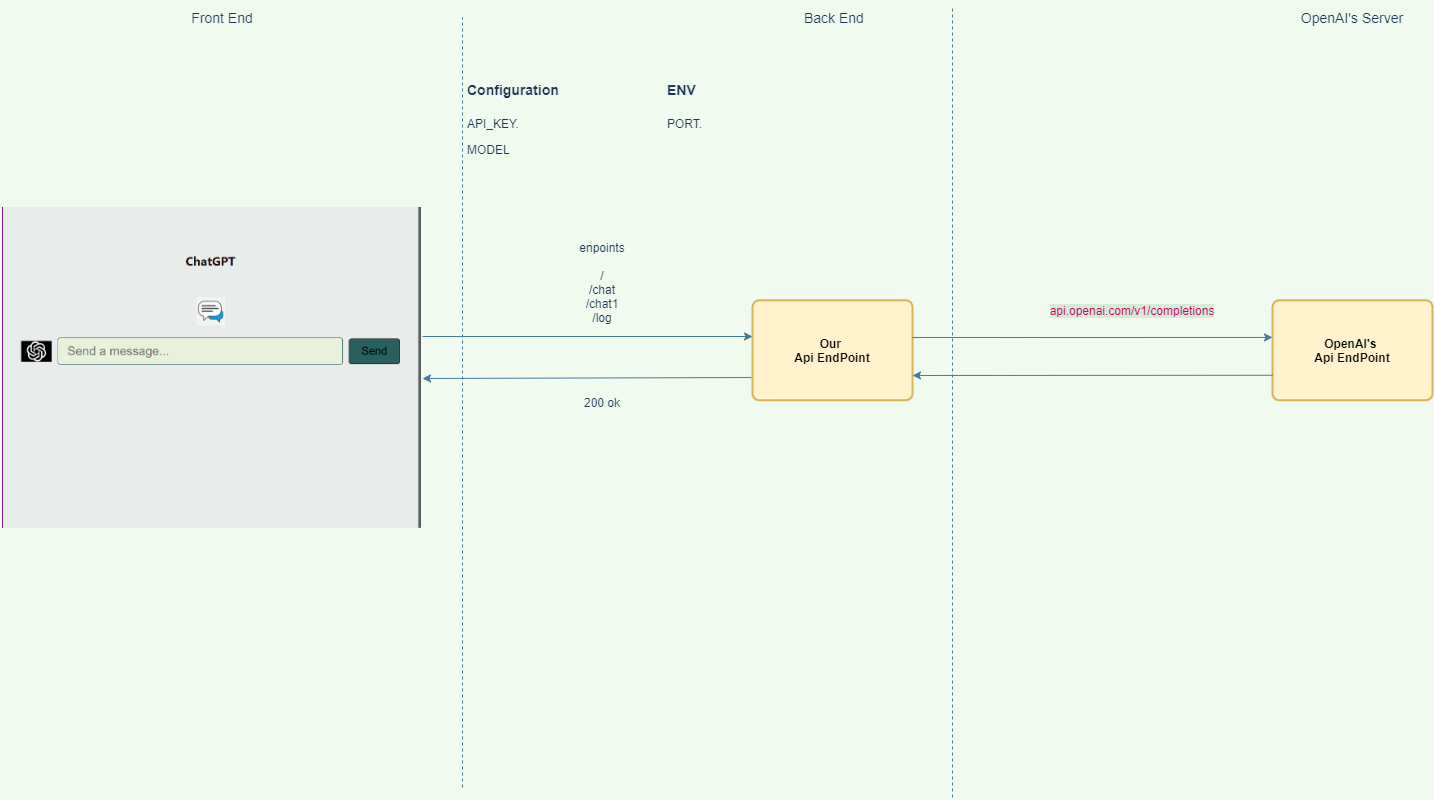
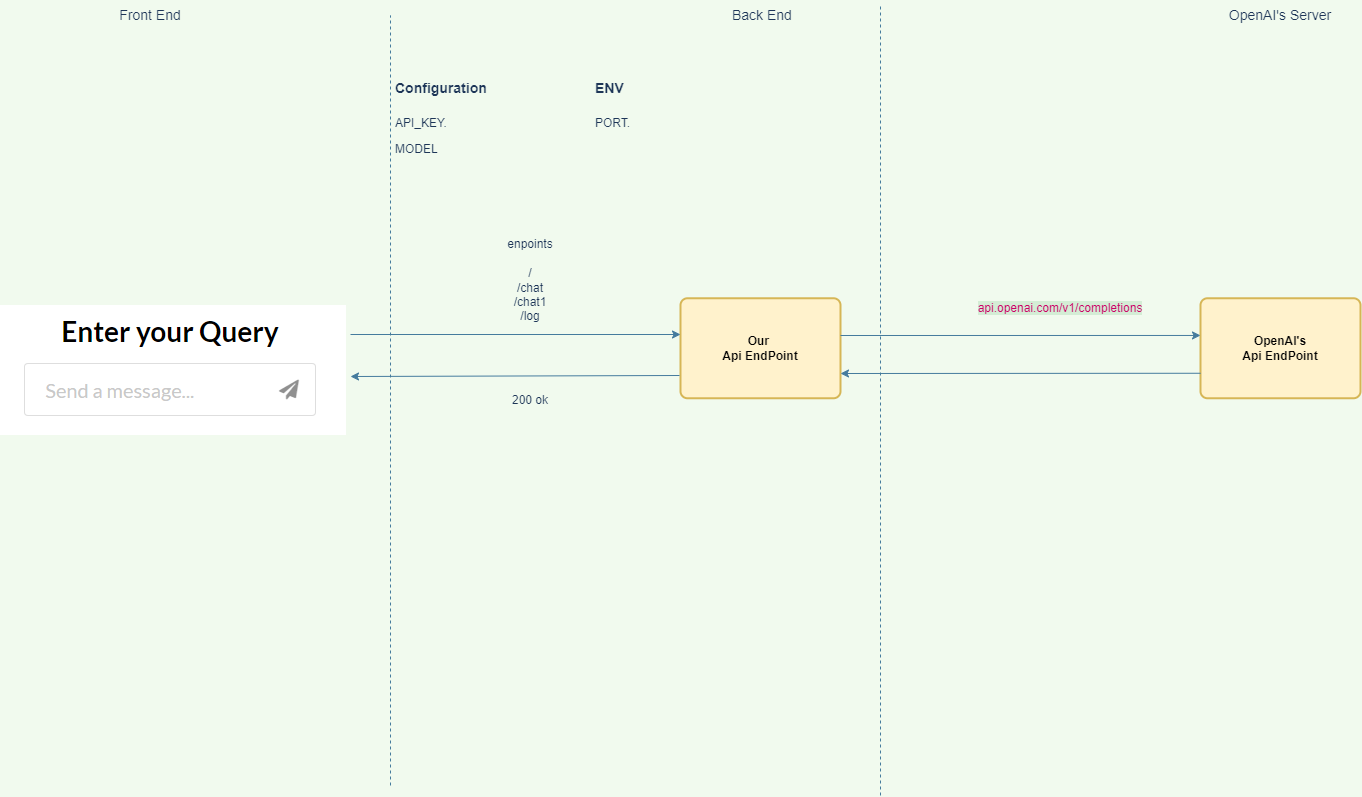
Modified the UI using fomantic-UI

diff --git a/ChatGPT_App/Frontend/src/App.js b/ChatGPT_App/Frontend/src/App.js
@@ -1,8 +1,8 @@
 import axios from "axios";
 import {useState} from 'react'
 import React from "react";
-import AppLogo from './app_logo.png'
-import CGLogo from './chat1_logo.png'
+// import AppLogo from './app_logo.png'
+// import CGLogo from './chat1_logo.png'
 import './App.css'
 
 
@@ -17,8 +17,8 @@ const App = () => {
 
   
     // Send a request to the server with the prompt
-     axios
-    .post("http://localhost:8080/chat", {prompt})
+    axios
+    .post("http://localhost:8080/chat1", {prompt})
     .then((res) => {
       // Update the response state with the server's response
       setResponse(res.data)
@@ -30,21 +30,35 @@ const App = () => {
   }
 
  
-  return(
-    <>
-     <h6>ChatGPT</h6> 
-      <div className="wrapper">
-      <img src={AppLogo} alt="" className="app-logo"/>
-      <form className="ui form" onSubmit={handleSubmit}>
-        <img src={CGLogo} alt="" className="cg-logo"/>
-        <input type='text' placeholder="Send a message..." value={prompt} onChange={(e) => setPrompt(e.target.value)} />
-        <button className="ui button" type="submit">Send</button>
-      </form>
-      <p className="response-area">{response}</p>
-    </div>
-    </>
+  // return(
+  //   <>
+  //    <h6>ChatGPT</h6> 
+  //     <div className="wrapper">
+  //     <img src={AppLogo} alt="" className="app-logo"/>
+  //     <form className="ui form" onSubmit={handleSubmit}>
+  //       <img src={CGLogo} alt="" className="cg-logo"/>
+  //       <input type='text' placeholder="Send a message..." value={prompt} onChange={(e) => setPrompt(e.target.value)} />
+  //       <button className="ui button" type="submit">Send</button>
+  //     </form>
+  //     <p className="response-area">{response}</p>
+  //   </div>
+  //   </>
    
-  )
+  // )
+
+
+  return (
+    <>   
+      <div  >
+          <h1>Enter your Query</h1> 
+          <div className="ui icon input">    
+              <input type="text" placeholder="Send a message..." value={prompt} onChange={(e) => setPrompt(e.target.value)} />
+            <i className="paper plane link icon" onClick={handleSubmit}></i>
+          </div>  
+      </div>
+      <p>{response}</p>
+    </>    
+  );
 }
 
 export default App

diff --git a/ChatGPT_App/Backend/server.js b/ChatGPT_App/Backend/server.js
@@ -36,7 +36,7 @@ app.post("/chat", async (req, res) => {
 // Using axios
 app.post("/chat1", async (req, res) => {
   
-  const apiKey = api_Key;
+  const apiKey = config.get('chatgpt.api_key');
   const { prompt } = req.body;
 
   const client = axios.create({
@@ -47,7 +47,7 @@ app.post("/chat1", async (req, res) => {
 
   const params = {
     prompt: prompt,
-    model: model
+    model:config.get('chatgpt.model')
   };
 
   client

diff --git a/ChatGPT_App/Frontend/public/index.html b/ChatGPT_App/Frontend/public/index.html
@@ -24,6 +24,7 @@
       work correctly both with client-side routing and a non-root public URL.
       Learn how to configure a non-root public URL by running `npm run build`.
     -->
+    <link rel="stylesheet" type="text/css" href="https://cdn.jsdelivr.net/npm/fomantic-ui@2.8.8/dist/semantic.min.css"></link>
     <title>React App</title>
   </head>
   <body>

diff --git a/ChatGPT_App/Frontend/src/App.css b/ChatGPT_App/Frontend/src/App.css
@@ -1,9 +1,9 @@
 body {
   text-align: center;
-  font-size: 30px;
+  font-size: 20px;
   padding: 30px;
-  background-color: black;
-  color: whitesmoke;
+  background-color: white;
+  color: black;
 }
 
 .wrapper form {
